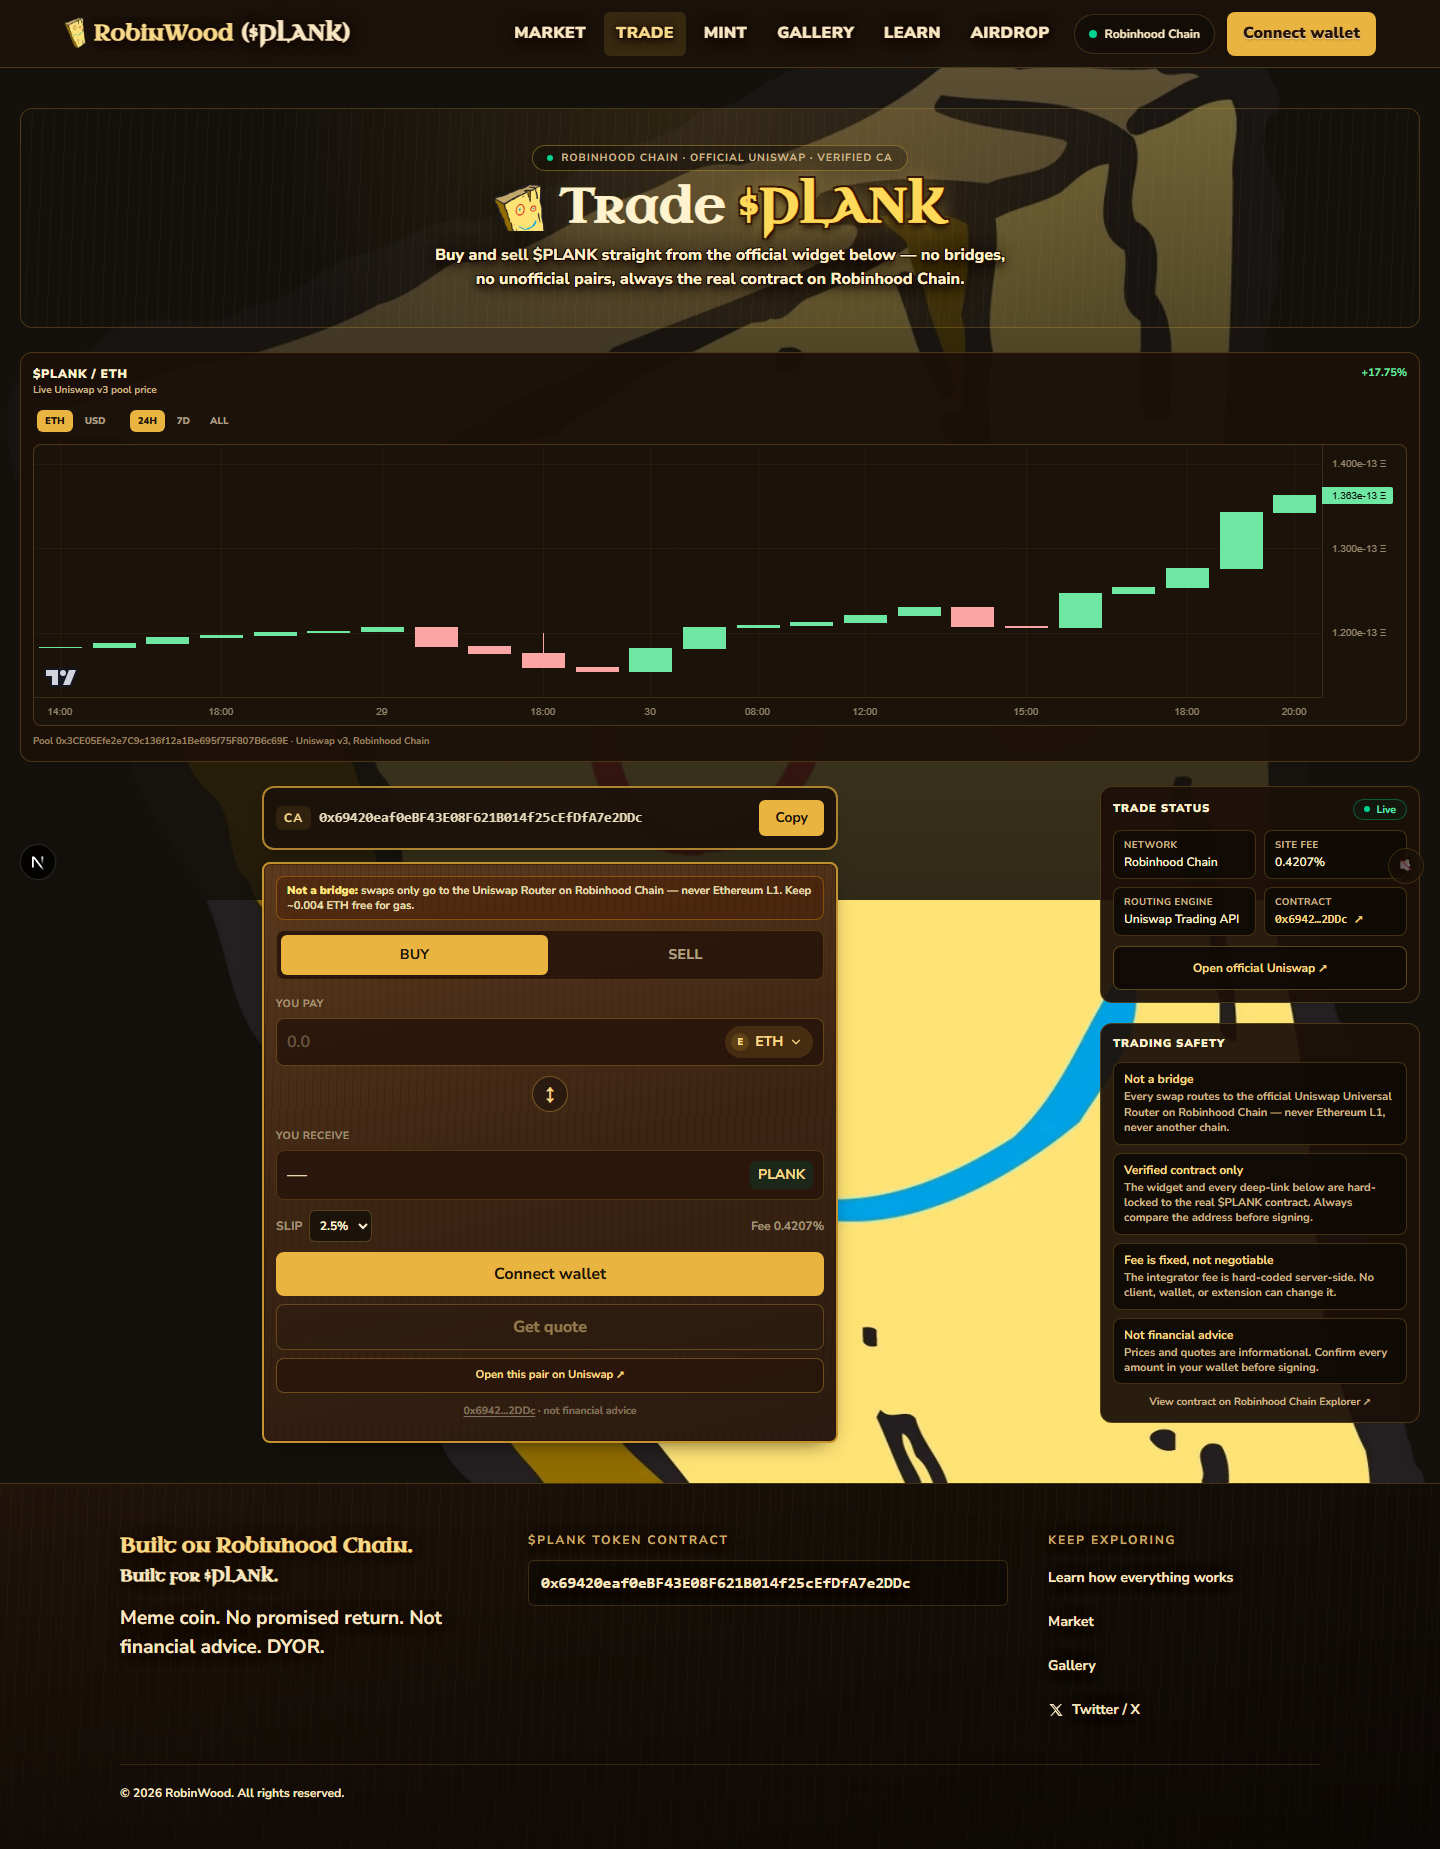
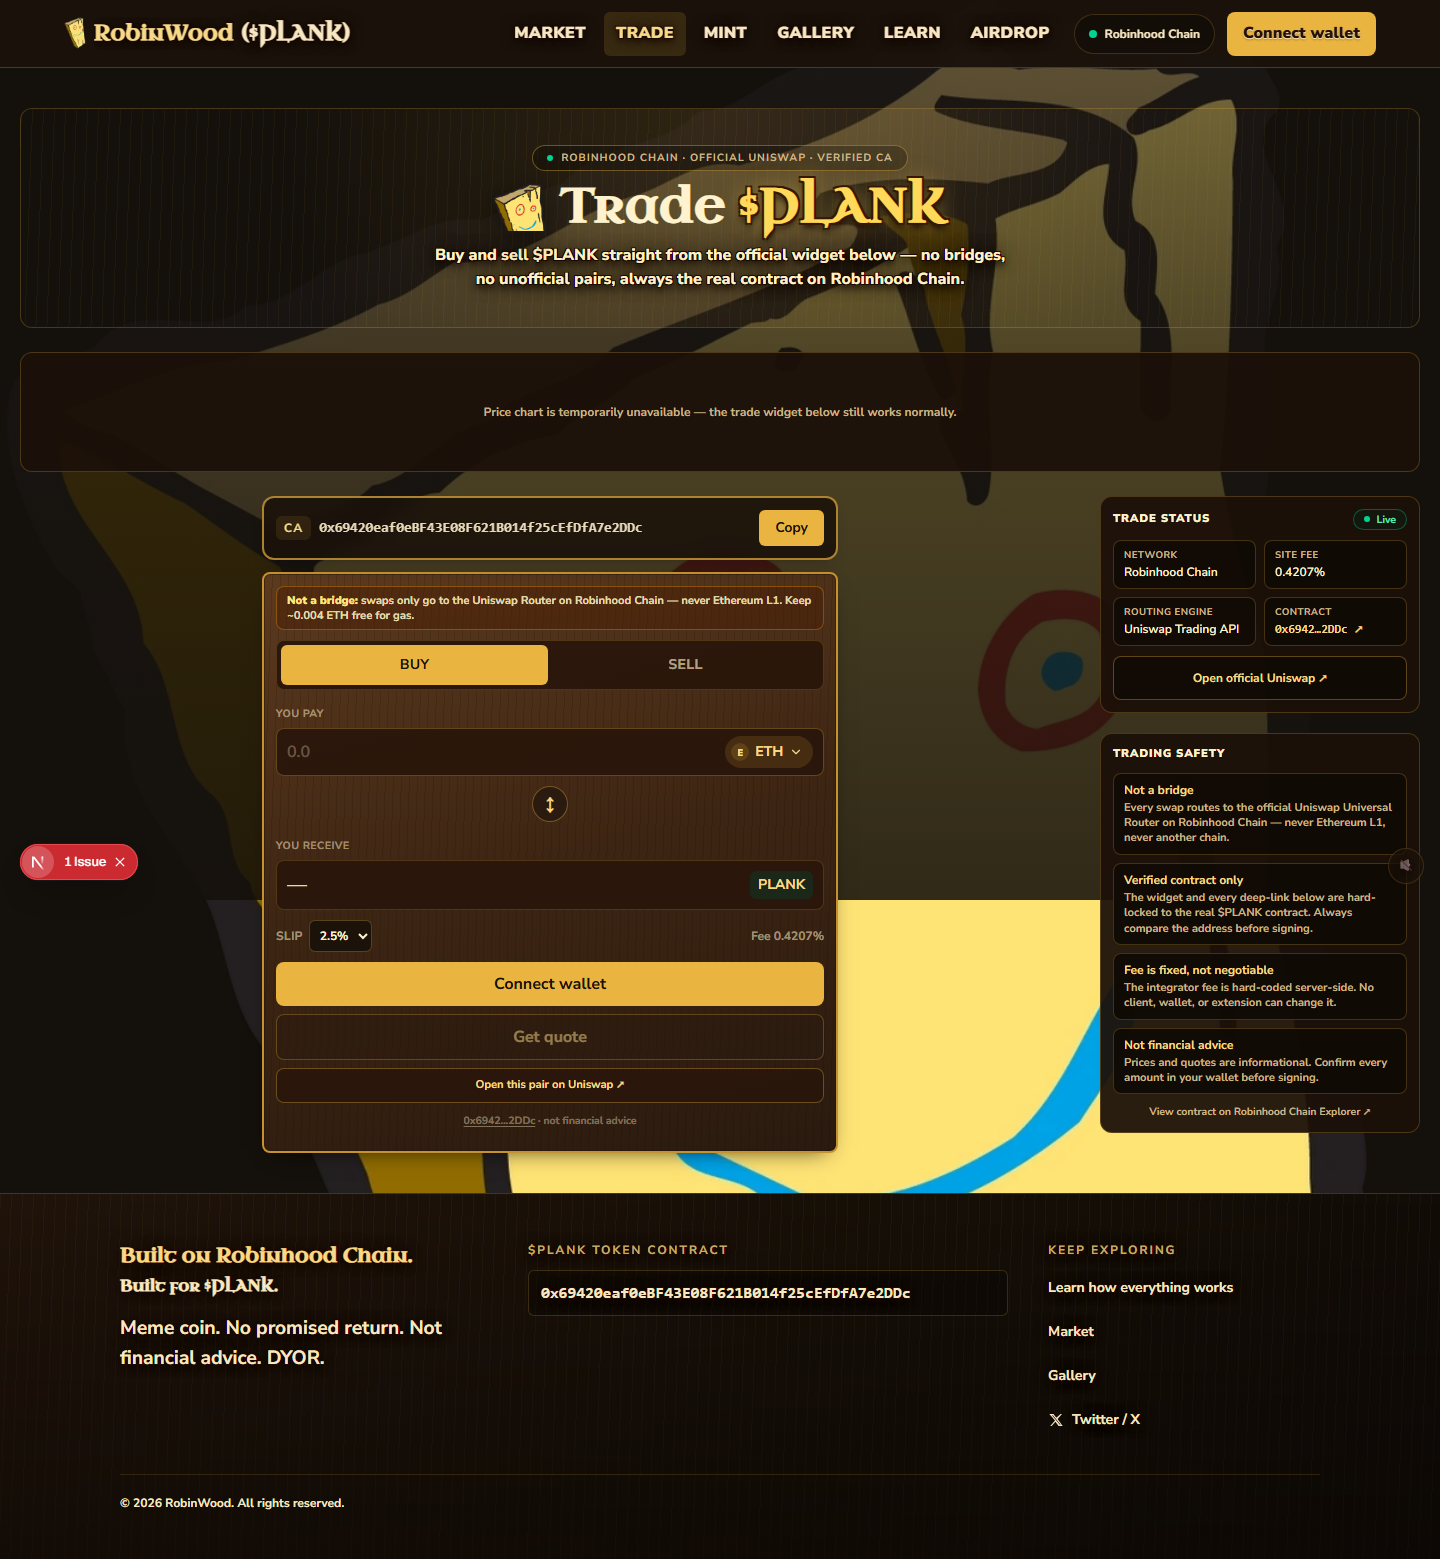
fix(trade): add error boundary around PlankPriceChart; refine disclaimer
ChartErrorBoundary.tsx wraps PlankPriceChart on /trade. Found during
verification: the chart throws an uncaught "data must be asc ordered by
time" error from lightweight-charts whenever the live candle feed returns
two bars with the same timestamp — same failure class NftPriceChart.tsx
already guards against with its own dedup step, but PlankPriceChart
doesn't (yet) do that dedup. Without a boundary this crashed the entire
/trade page in production (confirmed via a real prod build + server, not
just dev's Fast Refresh overlay). The boundary is a generic, chart-agnostic
safety net — price context is supporting information, not /trade's primary
task, so a chart-library exception must never take the trade widget down
with it. Filed the chart bug back to the owning agent; not fixed here,
since components/trade/PlankPriceChart.tsx is out of scope for this
workstream.

Also updates CrossChainDisclaimer.tsx to stop duplicating the non-atomic-
settlement risk callout ZeroXCrossChainPanel now shows itself (with a live
lifecycle indicator) — the page-level copy now covers only what the panel
doesn't: framing cross-chain as a distinct mode before the panel opens,
and durable per-chain + destination explorer links.

Verified in a real production build + server (npm run build && npm start,
not dev mode, which papers over uncaught effect errors differently) at
1440/768/390px:
- flag OFF (real default, NEXT_PUBLIC_ZEROX_CROSSCHAIN_ENABLED unset): no
[…]

diff --git a/components/trade/CrossChainDisclaimer.tsx b/components/trade/CrossChainDisclaimer.tsx
@@ -1,3 +1,6 @@
+"use client";
+
+import { ChevronDown, ShieldAlert } from "lucide-react";
 import { CHAIN } from "@/lib/constants";
 import { explorerTokenUrl } from "@/lib/trade";
 import { getSourceChainExplorerUrl } from "@/lib/crosschain-wallet";
@@ -7,12 +10,18 @@ type SourceChainOption = { chainId: number; name: string };
 /**
  * Owner-approved cross-chain safety copy, adapted for 0x's one-step flow
  * (ZeroXCrossChainPanel.tsx — one signed transaction, not the older
- * bridge-then-swap two-step). Mirrors the bullet points already approved for
- * CrossChainPanel.tsx's disclaimer (multi-chain, minutes not seconds, a
- * third party executes settlement, what happens if it fails) but never
- * promises the two-transaction recovery story that flow has, since 0x's is
- * genuinely one signature. Shown above the panel, before any quote/funds
- * commitment.
+ * bridge-then-swap two-step). ZeroXCrossChainPanel carries its own explicit
+ * non-atomic-settlement disclosure (shown right before the "Send" button,
+ * plus a lifecycle indicator once submitted) — this panel-level copy
+ * deliberately does NOT repeat that risk. It covers what the panel doesn't:
+ * framing this as a distinct mode before the user even opens the panel
+ * (multi-chain, not instant, don't navigate away mid-flow) and durable
+ * explorer links for both ends of the trip.
+ *
+ * Collapsed by default (native <details>) — same substance as before, none
+ * of it removed, just not a wall of amber text the user has to scroll past
+ * before they've typed an amount. The summary row alone still communicates
+ * "read this."
  */
 export default function CrossChainDisclaimer({
   sourceChains,
@@ -20,50 +29,50 @@ export default function CrossChainDisclaimer({
   sourceChains: SourceChainOption[];
 }) {
   return (
-    <div className="space-y-2 rounded-xl border border-amber-400/40 bg-amber-400/10 p-3">
-      <p className="text-sm font-bold text-amber-100">Before you buy cross-chain</p>
-      <ul className="list-disc space-y-1 pl-4 text-[0.75rem] text-amber-50/90">
-        <li>
-          One signed transaction, but it still spans two blockchains — your source chain and{" "}
-          {CHAIN.name}.
-        </li>
-        <li>
-          0x&apos;s routers execute the destination-chain leg, not plank.love — settlement is
-          usually fast, but the time shown is an estimate, not a guarantee.
-        </li>
-        <li>
-          Once you sign, your source-chain transaction is the full record of what you sent. If
-          $PLANK doesn&apos;t arrive after a reasonable wait, check that transaction on its source
-          chain&apos;s explorer first, then follow up with 0x referencing that hash — plank.love
-          never holds funds mid-transit.
-        </li>
-        <li>Always compare the destination amount against the real $PLANK contract below.</li>
-      </ul>
-      <div className="flex flex-wrap gap-x-4 gap-y-1 pt-1 text-[0.7rem]">
-        <a
-          href={explorerTokenUrl()}
-          target="_blank"
-          rel="noopener noreferrer"
-          className="font-bold text-amber-200 underline underline-offset-2 hover:text-amber-100"
-        >
-          $PLANK on {CHAIN.name} explorer ↗
-        </a>
-        {sourceChains.map((c) => {
-          const url = getSourceChainExplorerUrl(c.chainId);
-          if (!url) return null;
-          return (
-            <a
-              key={c.chainId}
-              href={url}
-              target="_blank"
-              rel="noopener noreferrer"
-              className="font-bold text-amber-200 underline underline-offset-2 hover:text-amber-100"
-            >
-              {c.name} explorer ↗
-            </a>
-          );
-        })}
+    <details className="group rounded-lg border border-line bg-panel-soft px-3 py-2 text-cream">
+      <summary className="flex cursor-pointer list-none items-center justify-between gap-2 text-[0.72rem] font-bold uppercase tracking-wide text-gold-300">
+        <span className="flex min-w-0 items-center gap-1.5">
+          <ShieldAlert size={13} className="shrink-0 text-gold-400" />
+          What to know before you buy cross-chain
+        </span>
+        <ChevronDown size={14} className="shrink-0 text-cream-muted transition-transform group-open:rotate-180" />
+      </summary>
+      <div className="mt-2.5 space-y-2.5">
+        <ul className="list-disc space-y-1 pl-4 text-[0.72rem] leading-snug text-cream-muted">
+          <li>
+            One signed transaction, but it still spans two blockchains — your source chain and{" "}
+            {CHAIN.name} — executed by 0x&apos;s routers, not plank.love.
+          </li>
+          <li>Usually fast, but not instant: don&apos;t close this tab while a step is in progress.</li>
+          <li>Always compare the destination amount against the real $PLANK contract below.</li>
+          <li>The panel below shows live settlement status and its own risk details once you quote.</li>
+        </ul>
+        <div className="flex flex-wrap gap-x-4 gap-y-1 text-[0.68rem]">
+          <a
+            href={explorerTokenUrl()}
+            target="_blank"
+            rel="noopener noreferrer"
+            className="font-bold text-gold-300 underline underline-offset-2 hover:text-gold-200"
+          >
+            $PLANK on {CHAIN.name} explorer ↗
+          </a>
+          {sourceChains.map((c) => {
+            const url = getSourceChainExplorerUrl(c.chainId);
+            if (!url) return null;
+            return (
+              <a
+                key={c.chainId}
+                href={url}
+                target="_blank"
+                rel="noopener noreferrer"
+                className="font-bold text-gold-300 underline underline-offset-2 hover:text-gold-200"
+              >
+                {c.name} explorer ↗
+              </a>
+            );
+          })}
+        </div>
       </div>
-    </div>
+    </details>
   );
 }

diff --git a/components/trade/ChartErrorBoundary.tsx b/components/trade/ChartErrorBoundary.tsx
@@ -1,0 +1,39 @@
+"use client";
+
+import { Component, type ReactNode } from "react";
+
+type Props = { children: ReactNode };
+type State = { hasError: boolean };
+
+/**
+ * Defensive boundary around PlankPriceChart (a component this page mounts
+ * but does not own/edit — see app/trade/page.tsx). Price context is
+ * supporting information, not the primary task on /trade (DESIGN.md: each
+ * page leads with its primary task); a chart-library exception must never
+ * take the whole trade workbench down with it. React error boundaries only
+ * catch render/commit-phase errors, which covers the observed failure mode
+ * (an uncaught throw inside the chart's data-effect) — this is a generic,
+ * chart-agnostic safety net, not a workaround for the specific bug.
+ */
+export default class ChartErrorBoundary extends Component<Props, State> {
+  state: State = { hasError: false };
+
+  static getDerivedStateFromError(): State {
+    return { hasError: true };
+  }
+
+  componentDidCatch(error: unknown) {
+    console.error("[trade] price chart failed to render:", error);
+  }
+
+  render() {
+    if (this.state.hasError) {
+      return (
+        <div className="flex min-h-[120px] items-center justify-center rounded-xl border border-line bg-panel p-3 text-center text-xs text-cream-muted">
+          Price chart is temporarily unavailable — the trade widget below still works normally.
+        </div>
+      );
+    }
+    return this.props.children;
+  }
+}
